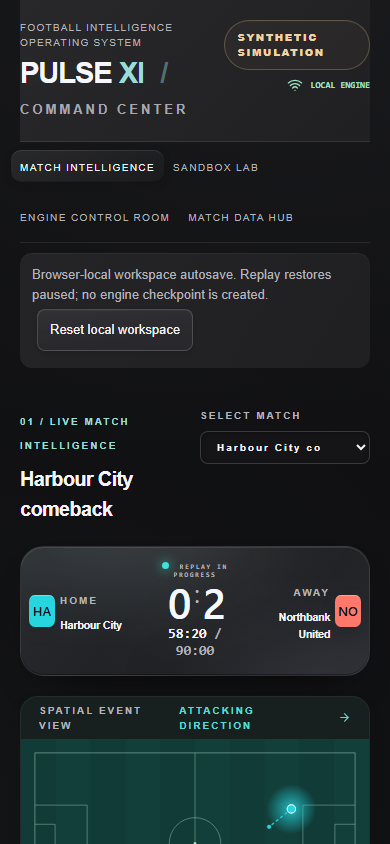
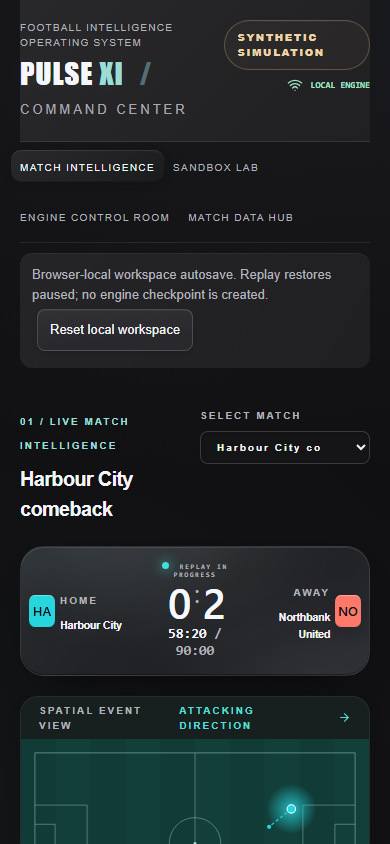
style(ui): checkpoint narrow header refinement before Atelier redesign

Changed region(s): [[0.0308, 0.0616, 0.4615, 0.154]]

diff --git a/frontend/src/precision-glass.css b/frontend/src/precision-glass.css
@@ -297,7 +297,7 @@ html[data-px-material="glass"] .speed button { border-radius: var(--px-radius-pi
 }
 
 /* Preserve narrow-screen text metrics and the existing stacked brand height. */
-@media (max-width:800px) {
+@media (max-width:700px) {
   html[data-px-material="glass"] .brand h1 { font-family: Impact, "Arial Narrow", sans-serif; font-weight: 500; letter-spacing: 1px; }
   html[data-px-material="glass"] .brand h1 small { letter-spacing: 3px; }
   html[data-px-material="glass"] .header .eyebrow { letter-spacing: 2px; font-weight: 700; }

diff --git a/docs/UI_DESIGN_SYSTEM.md b/docs/UI_DESIGN_SYSTEM.md
@@ -94,3 +94,5 @@ Refinement captures: [desktop](images/precision-glass/refined-desktop.png), [mob
 Refinement verification: TypeScript/production build and all 16 focused browser tests passed, covering 28 route/viewport geometry comparisons with the existing 2px desktop and 4px mobile limits. Narrow-screen moment and runtime-heading typography retain their original metrics to prevent wrapping changes. Backend and component logic diffs are empty.
 
 All six desktop/mobile material smoke tests also passed across Chromium, Firefox and Playwright WebKit. These checks cover the real replay, Sandbox, Data Hub and authenticated runtime routes, reduced motion, overflow and browser console errors.
+
+Cross-platform header correction: narrow-screen brand and eyebrow font metrics follow the original styles at the existing 700px header breakpoint. This avoids Linux font fallback changing the header height while retaining the refined materials. The Glass branch also incorporates main `973f29b`, including broadcast evidence and the authorized experiment archive reuse correction.
